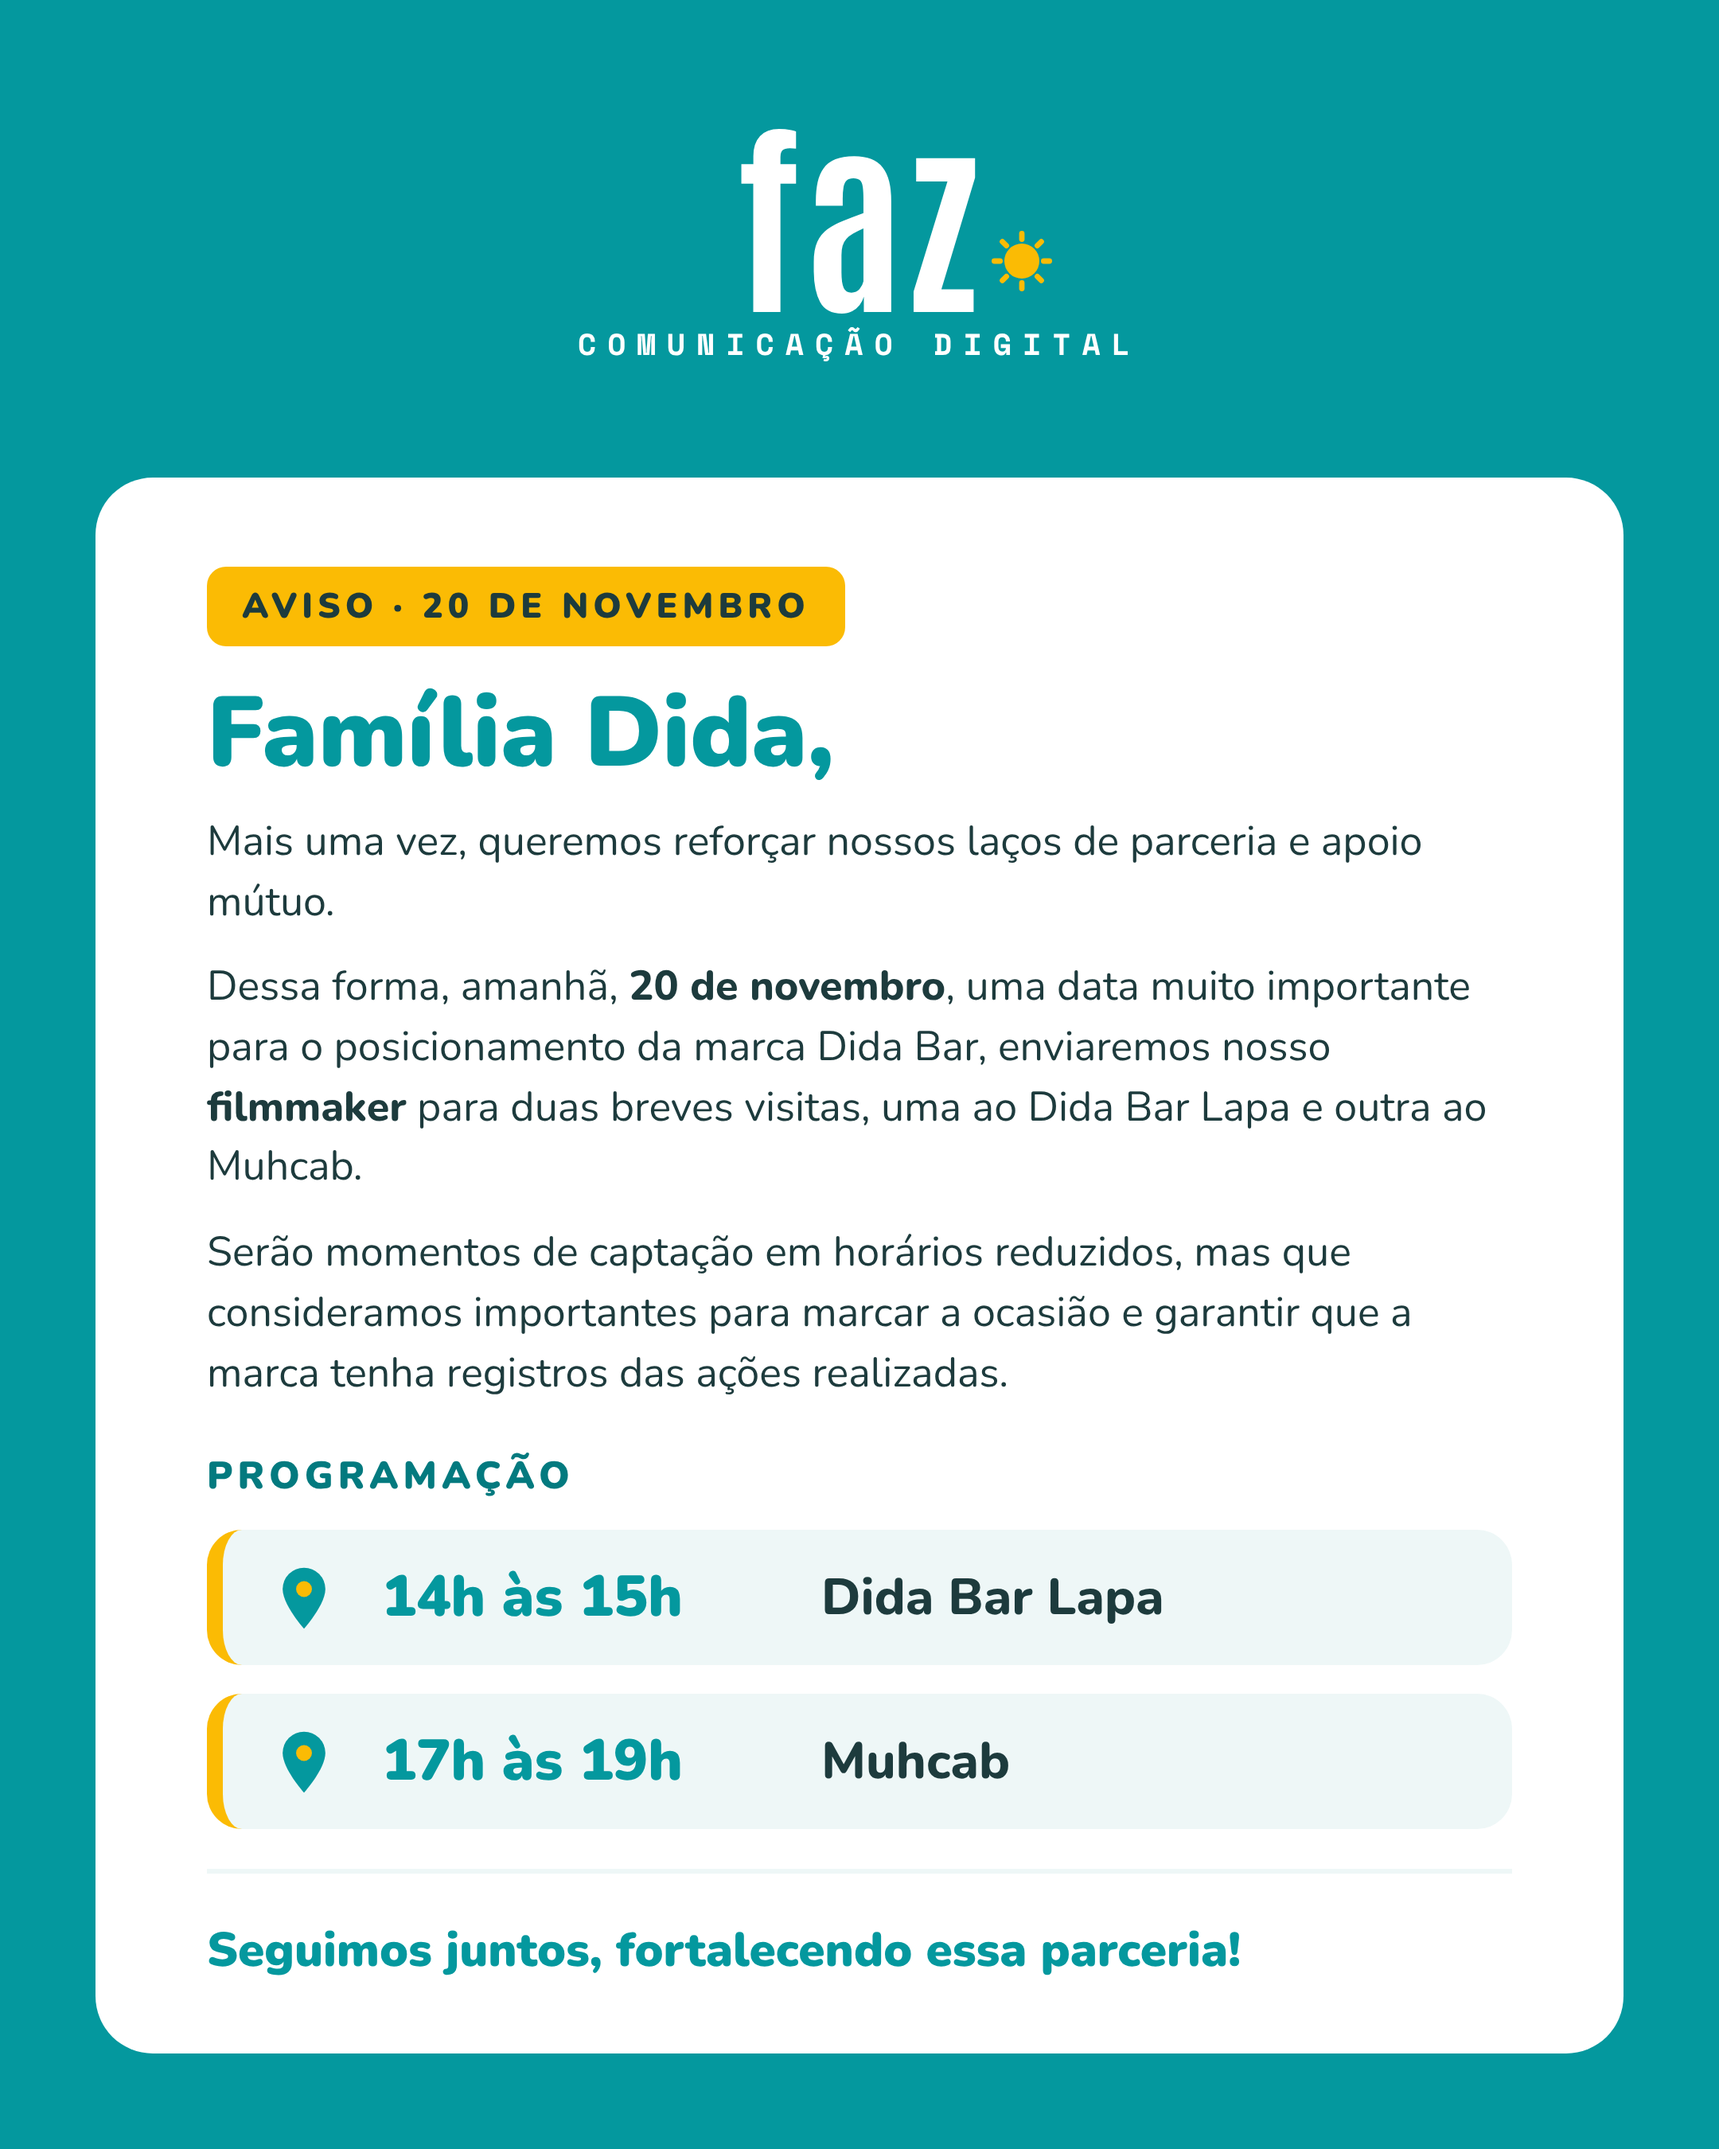
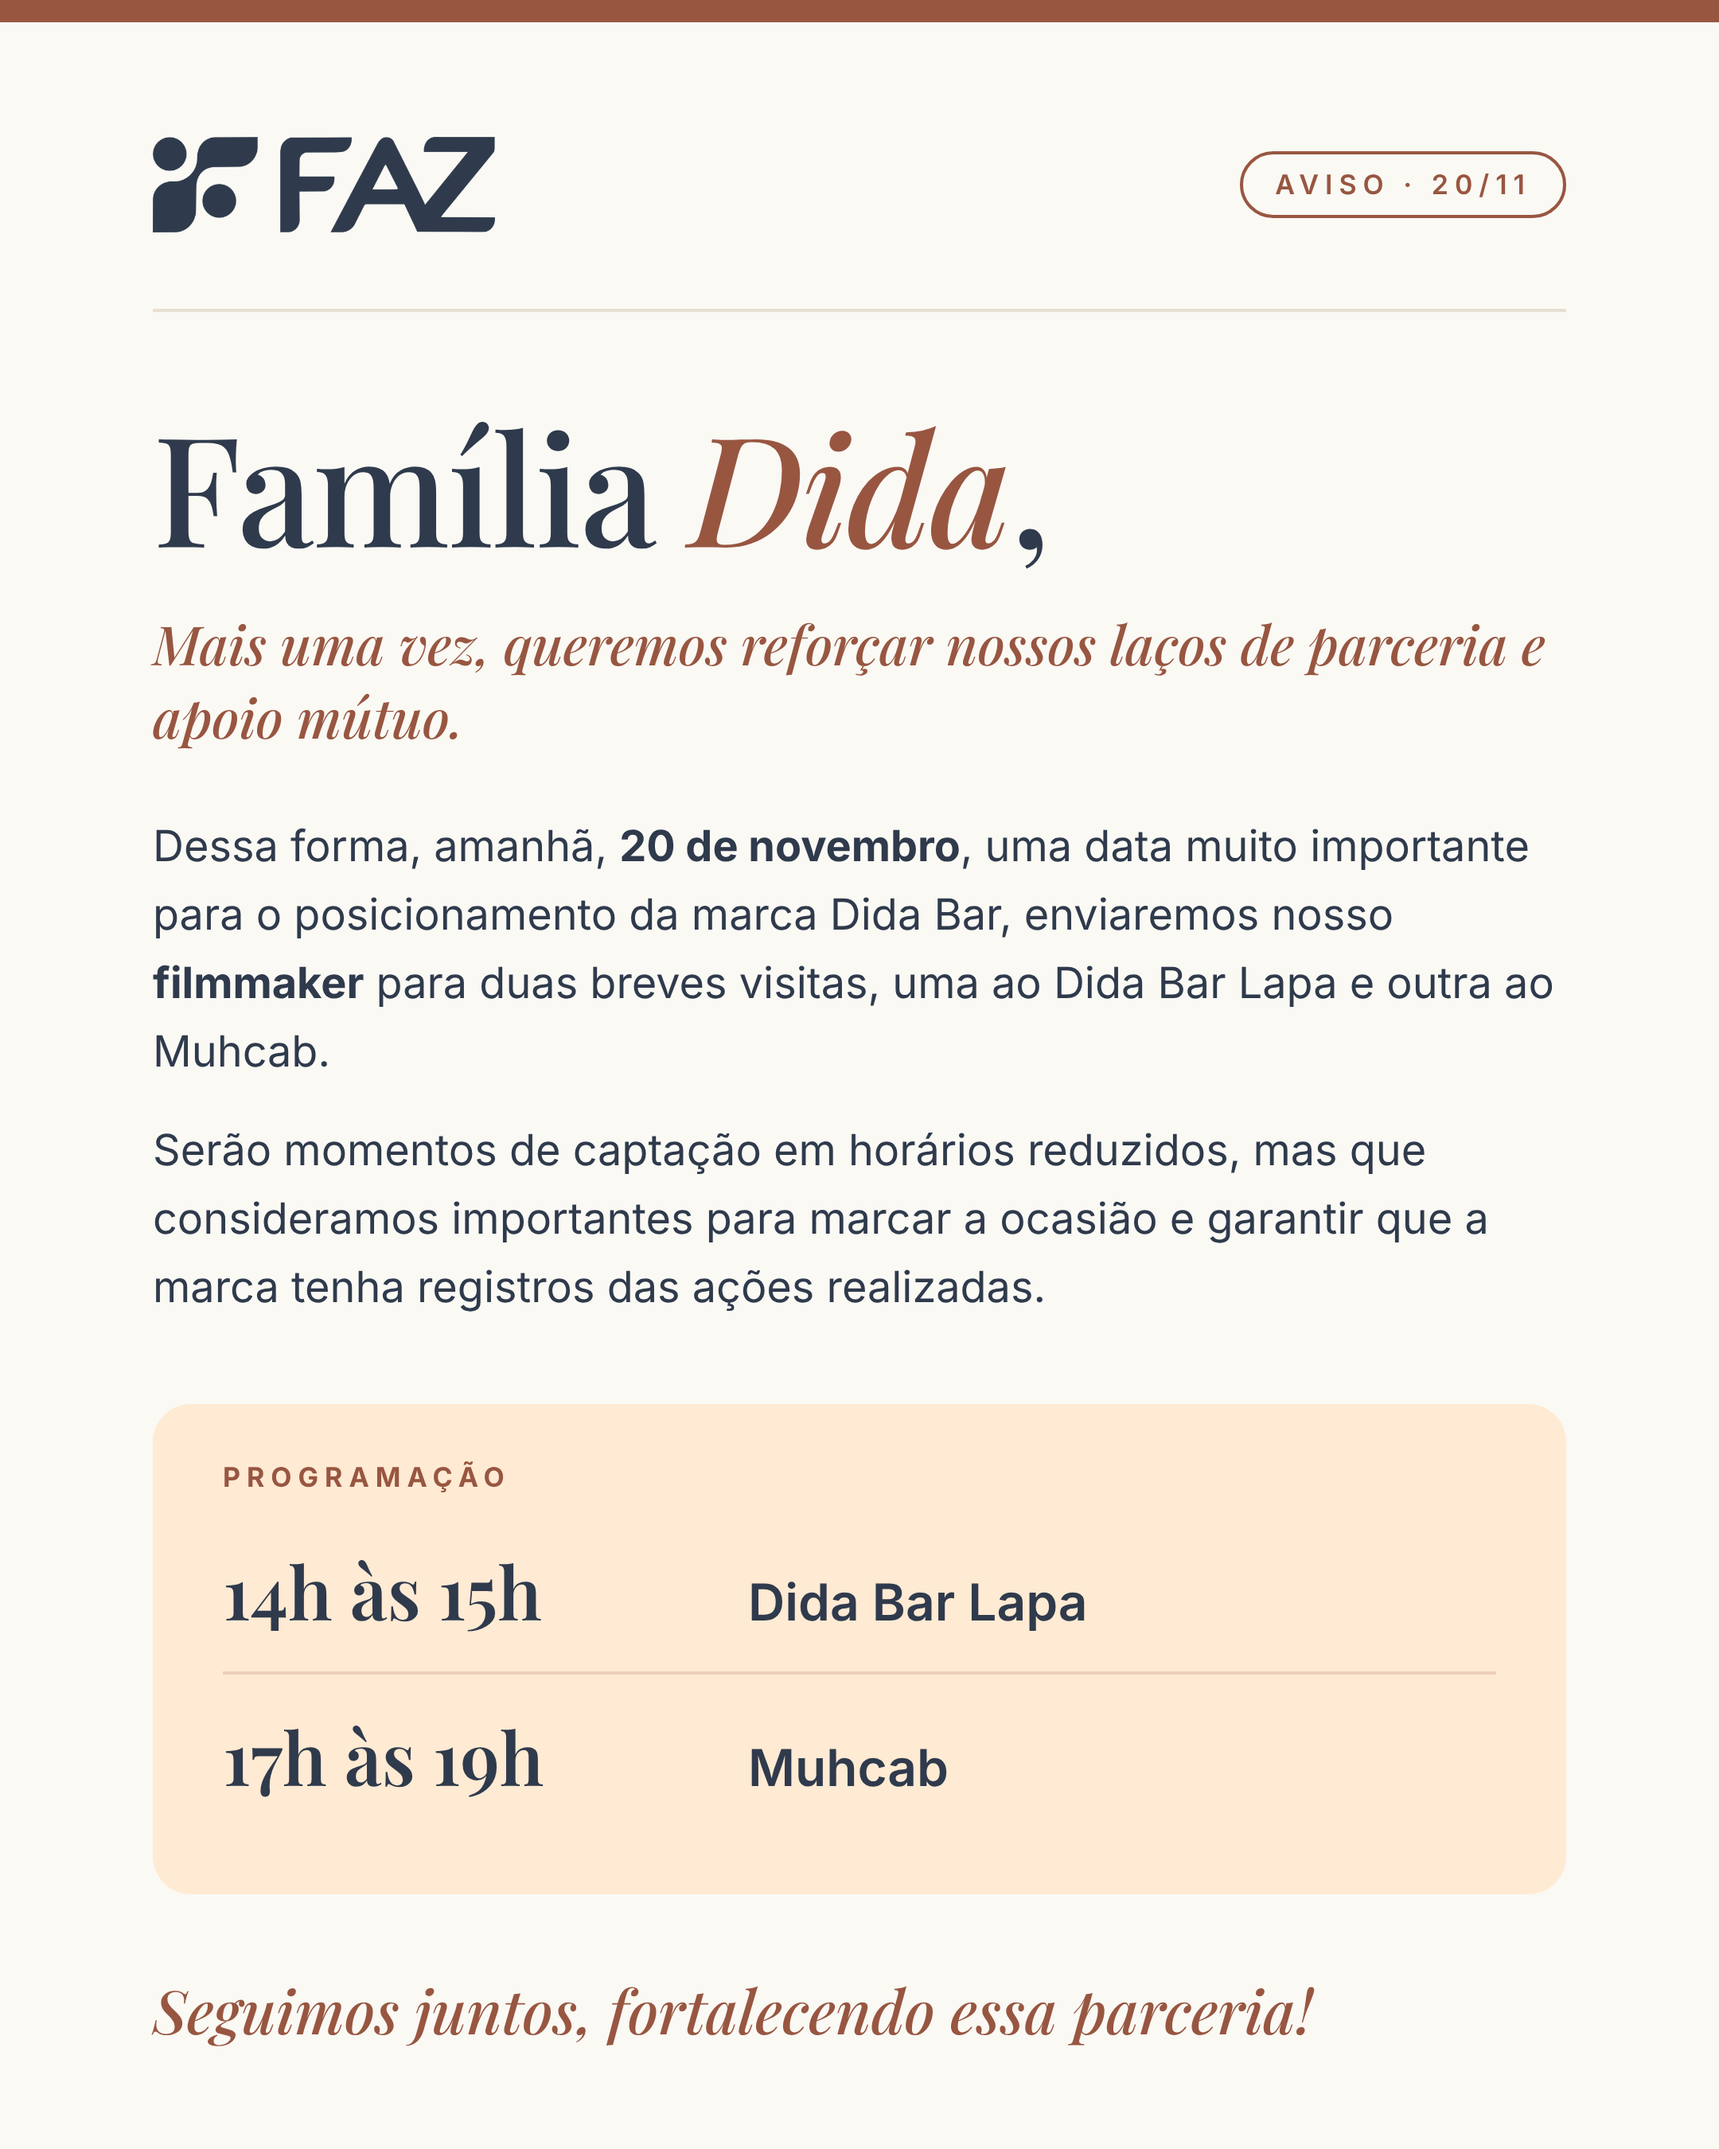
Refaz aviso Família Dida com a identidade real da FAZ
Usa o logo oficial e a paleta do Portal FAZ (creme, azul-marinho,
terracota e pêssego) com títulos em serifa, no lugar da cor e do logo
antigos tirados de uma proposta no Canva.

Claude-Session: https://claude.ai/code/session_01NrFLg8teARWCnCwNSxCVA9

diff --git a/avisos/aviso-dida-filmmaker-20nov.html b/avisos/aviso-dida-filmmaker-20nov.html
@@ -1,44 +1,47 @@
 <!doctype html>
 <html lang="pt-BR"><head><meta charset="utf-8">
-<link href="https://fonts.googleapis.com/css2?family=Nunito:wght@400;600;800;900&family=Antonio:wght@600;700&family=Space+Mono:wght@700&display=swap" rel="stylesheet">
+<link href="https://fonts.googleapis.com/css2?family=Playfair+Display:ital,wght@0,500;0,600;1,500&family=Inter:wght@400;500;600;700&display=swap" rel="stylesheet">
 <style>
-:root{--teal:#04989e;--teal-d:#037a7f;--sun:#fbbb04;--ink:#1d3b3d;--soft:#eef7f7}
+/* Identidade FAZ (Portal FAZ): creme, azul-marinho, terracota e pêssego.
+   Títulos: TAN Angleton (Playfair Display como substituta). Texto: Aileron (Inter como substituta). */
+:root{--bg:#FAF9F4;--ink:#2F3A4C;--muted:#5F6875;--line:#E7DFD2;--accent:#985641;--peach:#FFEAD3;--gold:#F2B570}
 *{margin:0;padding:0;box-sizing:border-box}
-body{width:1080px;height:1350px;background:var(--teal);font-family:Nunito,sans-serif;color:var(--ink);overflow:hidden}
-.top{height:300px;display:flex;flex-direction:column;align-items:center;justify-content:center;color:#fff;position:relative}
-.logo{font-family:Antonio,sans-serif;font-weight:700;font-size:132px;line-height:.9;letter-spacing:2px;position:relative}
-.logo .sun{position:absolute;right:-44px;bottom:4px;width:40px;height:40px}
-.tag{font-family:'Space Mono',monospace;font-size:19px;letter-spacing:7px;margin-top:14px}
-.card{position:absolute;left:60px;right:60px;top:300px;bottom:60px;background:#fff;border-radius:36px;padding:56px 70px 44px;display:flex;flex-direction:column}
-.chip{align-self:flex-start;background:var(--sun);color:var(--ink);font-weight:900;font-size:22px;letter-spacing:3px;padding:10px 22px;border-radius:12px;text-transform:uppercase}
-h1{font-weight:900;font-size:62px;color:var(--teal);margin:24px 0 18px;line-height:1}
-p{font-size:26px;line-height:1.45;margin-bottom:16px}
-p b{font-weight:800}
-.prog{margin-top:14px;display:flex;flex-direction:column;gap:18px}
-.prog h2{font-weight:900;font-size:24px;letter-spacing:3px;text-transform:uppercase;color:var(--teal-d)}
-.slot{display:flex;align-items:center;gap:26px;background:var(--soft);border-radius:22px;padding:18px 28px;border-left:10px solid var(--sun)}
-.pin{width:46px;height:46px;flex:none}
-.time{font-weight:900;font-size:36px;color:var(--teal);min-width:250px}
-.place{font-weight:800;font-size:32px}
-.foot{margin-top:auto;display:flex;align-items:center;justify-content:space-between;border-top:3px solid var(--soft);padding-top:28px}
-.foot span{font-weight:900;font-size:30px;color:var(--teal)}
-.foot small{font-family:'Space Mono',monospace;font-size:16px;letter-spacing:4px;color:#7a9a9b}
+body{width:1080px;height:1350px;background:var(--bg);color:var(--ink);font-family:Aileron,Inter,sans-serif;overflow:hidden;position:relative}
+.band{position:absolute;inset:0 0 auto 0;height:14px;background:var(--accent)}
+.wrap{position:absolute;inset:14px 0 0 0;padding:72px 96px 64px;display:flex;flex-direction:column}
+.head{display:flex;align-items:center;justify-content:space-between}
[1 lines of base64/hex data omitted]
+.tag{font-weight:600;font-size:17px;letter-spacing:4px;text-transform:uppercase;color:var(--accent);border:2px solid var(--accent);border-radius:999px;padding:9px 20px}
+.rule{height:2px;background:var(--line);margin:48px 0 60px}
+h1{font-family:"TAN Angleton","Playfair Display",Georgia,serif;font-weight:500;font-size:96px;line-height:1;letter-spacing:-.01em}
+h1 em{font-style:italic;color:var(--accent)}
+.lead{font-family:"TAN Angleton","Playfair Display",Georgia,serif;font-style:italic;font-size:34px;line-height:1.35;color:var(--accent);margin:30px 0 36px}
+p{font-size:27px;line-height:1.6;color:var(--ink);margin-bottom:18px}
+p b{font-weight:700}
+.prog{margin-top:34px;background:var(--peach);border-radius:24px;padding:36px 44px}
+.prog h2{font-weight:700;font-size:17px;letter-spacing:4px;text-transform:uppercase;color:var(--accent);margin-bottom:10px}
+.slot{display:flex;align-items:baseline;gap:30px;padding:20px 0}
+.slot+.slot{border-top:2px solid rgba(152,86,65,.18)}
+.time{font-family:"TAN Angleton","Playfair Display",Georgia,serif;font-weight:600;font-size:46px;min-width:300px}
+.place{font-weight:600;font-size:32px}
+.place small{display:block;font-weight:500;font-size:18px;letter-spacing:2px;text-transform:uppercase;color:var(--muted);margin-top:2px}
+.foot{margin-top:auto;display:flex;align-items:flex-end;justify-content:space-between}
+.foot p{font-family:"TAN Angleton","Playfair Display",Georgia,serif;font-style:italic;font-size:38px;line-height:1.2;margin:0;color:var(--accent)}
+.foot span{font-size:16px;letter-spacing:4px;text-transform:uppercase;color:var(--muted)}
 </style></head><body>
-<div class="top">
-  <div class="logo">faz<svg class="sun" viewBox="0 0 40 40"><g fill="#fbbb04"><circle cx="20" cy="20" r="11"/><g id="r"><rect x="18.3" y="1" width="3.4" height="7" rx="1.7"/></g><use href="#r" transform="rotate(45 20 20)"/><use href="#r" transform="rotate(90 20 20)"/><use href="#r" transform="rotate(135 20 20)"/><use href="#r" transform="rotate(180 20 20)"/><use href="#r" transform="rotate(225 20 20)"/><use href="#r" transform="rotate(270 20 20)"/><use href="#r" transform="rotate(315 20 20)"/></g></svg></div>
-  <div class="tag">COMUNICAÇÃO DIGITAL</div>
-</div>
-<div class="card">
-  <div class="chip">Aviso · 20 de novembro</div>
-  <h1>Família Dida,</h1>
-  <p>Mais uma vez, queremos reforçar nossos laços de parceria e apoio mútuo.</p>
+<div class="band"></div>
+<div class="wrap">
+  <div class="head"><div class="logo" role="img" aria-label="FAZ"></div><div class="tag">Aviso · 20/11</div></div>
+  <div class="rule"></div>
+  <h1>Família <em>Dida</em>,</h1>
+  <div class="lead">Mais uma vez, queremos reforçar nossos laços de parceria e apoio mútuo.</div>
   <p>Dessa forma, amanhã, <b>20 de novembro</b>, uma data muito importante para o posicionamento da marca Dida Bar, enviaremos nosso <b>filmmaker</b> para duas breves visitas, uma ao Dida Bar Lapa e outra ao Muhcab.</p>
   <p>Serão momentos de captação em horários reduzidos, mas que consideramos importantes para marcar a ocasião e garantir que a marca tenha registros das ações realizadas.</p>
   <div class="prog">
     <h2>Programação</h2>
-    <div class="slot"><svg class="pin" viewBox="0 0 24 24"><path fill="#04989e" d="M12 2a7 7 0 0 0-7 7c0 5.2 7 13 7 13s7-7.8 7-13a7 7 0 0 0-7-7z"/><circle cx="12" cy="9" r="2.6" fill="#fbbb04"/></svg><div class="time">14h às 15h</div><div class="place">Dida Bar Lapa</div></div>
-    <div class="slot"><svg class="pin" viewBox="0 0 24 24"><path fill="#04989e" d="M12 2a7 7 0 0 0-7 7c0 5.2 7 13 7 13s7-7.8 7-13a7 7 0 0 0-7-7z"/><circle cx="12" cy="9" r="2.6" fill="#fbbb04"/></svg><div class="time">17h às 19h</div><div class="place">Muhcab</div></div>
+    <div class="slot"><div class="time">14h às 15h</div><div class="place">Dida Bar Lapa</div></div>
+    <div class="slot"><div class="time">17h às 19h</div><div class="place">Muhcab</div></div>
   </div>
-  <div class="foot"><span>Seguimos juntos, fortalecendo essa parceria!</span></div>
+  <div class="foot"><p>Seguimos juntos, fortalecendo essa parceria!</p></div>
 </div>
 </body></html>
